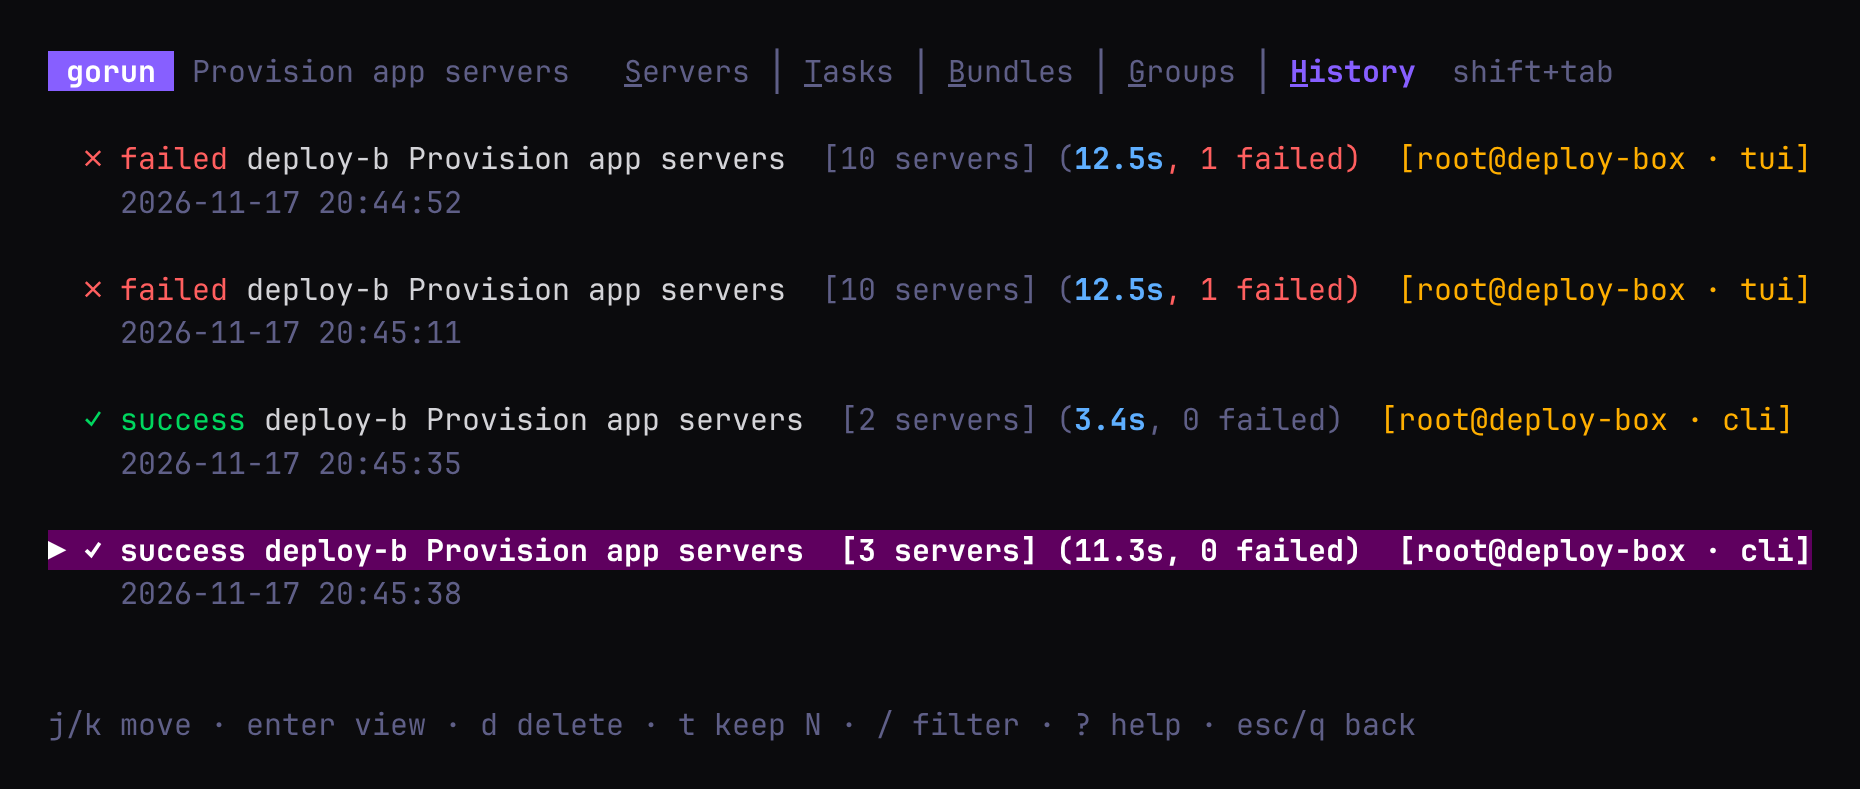
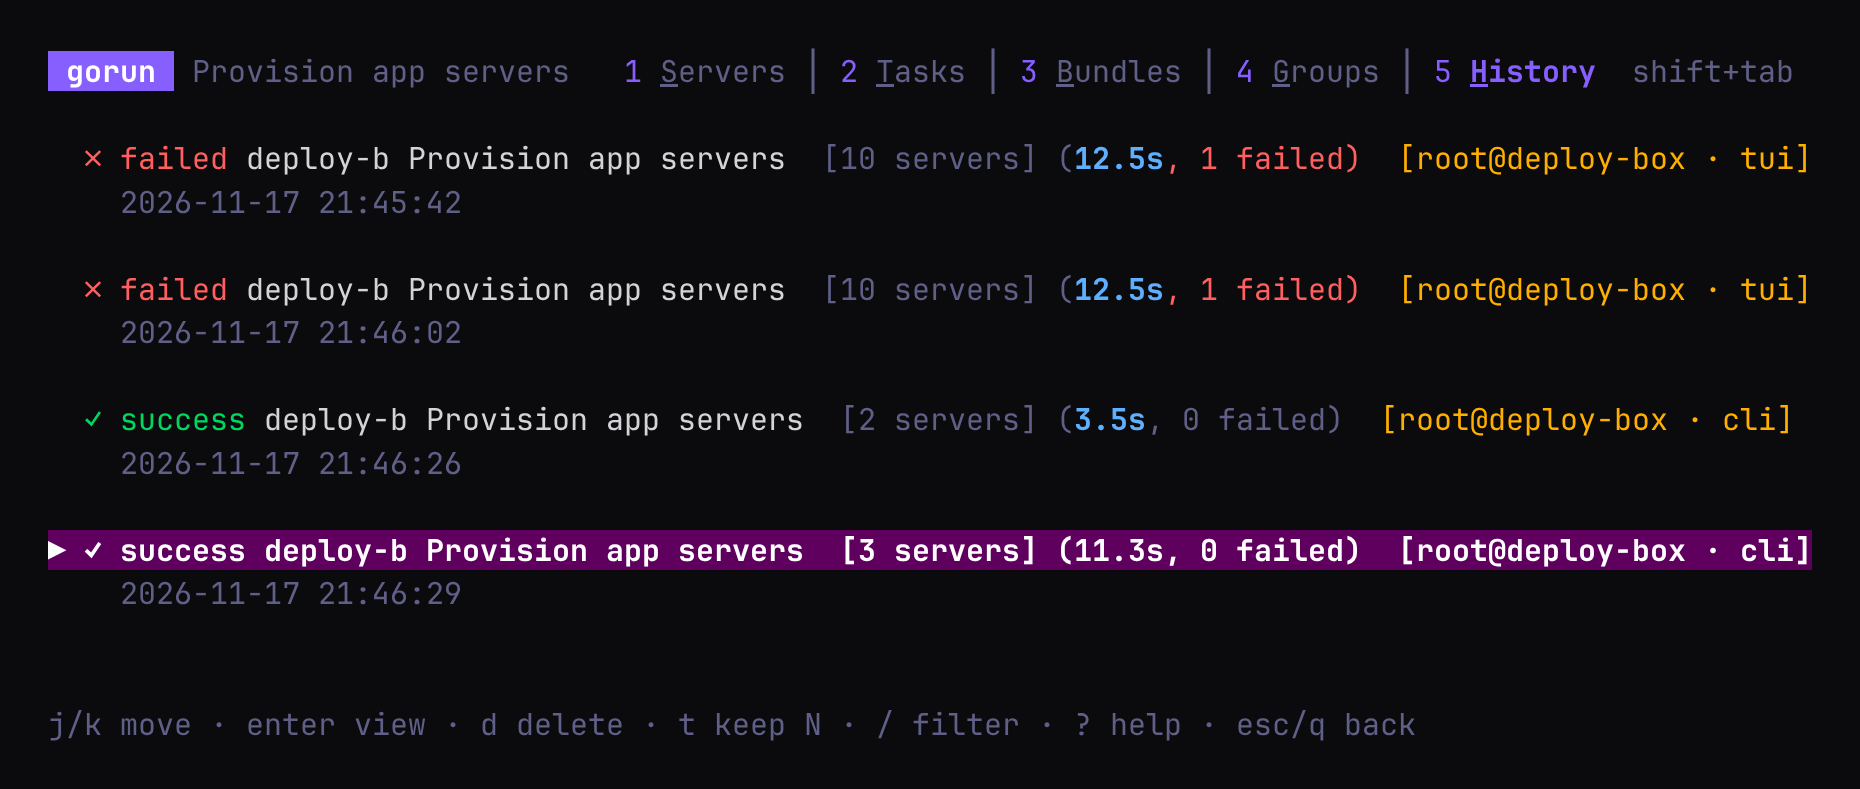
feat(tui): number the tabs
Each tab shows the number that goes to it before its name: 1 Servers │ 2 Tasks │ …
Clicking the number opens the tab too. The Tasks details footer gives the vim keys.

Claude-Session: https://claude.ai/code/session_01EW1GXQyiCXk7g5DY1fHxcd

diff --git a/cmd/select.go b/cmd/select.go
@@ -7,6 +7,7 @@ import (
 	"maps"
 	"os"
 	"slices"
+	"strconv"
 	"strings"
 	"unicode"
 
@@ -518,8 +519,8 @@ func (m serverSelectionModel) tabsWidth() int {
 // tabsLine renders the tab labels, after the title.
 func (m serverSelectionModel) tabsLine() string {
 	labels := []string{}
-	for _, tab := range m.tabs() {
-		labels = append(labels, m.tabLabel(tabNames[tab], tab))
+	for i, tab := range m.tabs() {
+		labels = append(labels, m.tabLabel(tabNames[tab], tab, i+1))
 	}
 	return "   " + strings.Join(labels, mutedStyle.Render(" │ ")) + mutedStyle.Render("  shift+tab")
 }
@@ -544,18 +545,24 @@ func (m serverSelectionModel) titleLine() string {
 	return line + m.tabsLine()
 }
 
-// tabLabel renders a tab's name with its shortcut letter underlined, highlighted when it is the active tab.
-func (m serverSelectionModel) tabLabel(name string, tab int) string {
+// tabLabel renders a tab's number and name, with its shortcut letter underlined, highlighted
+// when it is the active tab.
+func (m serverSelectionModel) tabLabel(name string, tab, n int) string {
 	if name == "" {
 		return ""
 	}
+	// the number key (n) and the ctrl+letter (underlined) that go to the tab
+	num := tabNumberStyle.Render(strconv.Itoa(n)) + " "
 	underlined := lipgloss.NewStyle().Underline(true).Render(string(name[0]))
 	rest := name[1:]
 	if m.tab == tab {
-		return activeTabStyle.Render(underlined) + activeTabStyle.Render(rest)
+		return num + activeTabStyle.Render(underlined) + activeTabStyle.Render(rest)
 	}
-	return mutedStyle.Render(underlined) + mutedStyle.Render(rest)
+	return num + mutedStyle.Render(underlined) + mutedStyle.Render(rest)
 }
+
+// tabNumberStyle draws the number before each tab's name.
+var tabNumberStyle = lipgloss.NewStyle().Foreground(colorAccent)
 
 // tabAt returns the tab whose label is at screen position x, y.
 func (m serverSelectionModel) tabAt(x, y int) (int, bool) {
@@ -564,7 +571,7 @@ func (m serverSelectionModel) tabAt(x, y int) (int, bool) {
 	}
 	start := lipgloss.Width(m.titlePrefix() + "   ")
 	for _, tab := range m.tabs() {
-		w := lipgloss.Width(tabNames[tab])
+		w := lipgloss.Width(tabNames[tab]) + 2 // the number and a space
 		if x >= start && x < start+w {
 			return tab, true
 		}

diff --git a/cmd/select_test.go b/cmd/select_test.go
@@ -699,7 +699,7 @@ func TestServerSelectionModel_HistoryTab(t *testing.T) {
 	if m.tab != tabServers {
 		t.Fatal("clicking the Servers tab should show the servers")
 	}
-	m, _ = send(m, tea.MouseClickMsg{X: x + lipgloss.Width("Servers │ "), Y: 0, Button: tea.MouseLeft})
+	m, _ = send(m, tea.MouseClickMsg{X: x + lipgloss.Width("1 Servers │ "), Y: 0, Button: tea.MouseLeft})
 	if m.tab != tabHistory {
 		t.Fatal("clicking the History tab should show the history")
 	}
@@ -768,7 +768,7 @@ func TestServerSelectionModel_LongTitleKeepsTabs(t *testing.T) {
 	if w := lipgloss.Width(line); w > 70 {
 		t.Errorf("the title line is %d wide, want at most 70", w)
 	}
-	if plain := ansi.Strip(line); !strings.Contains(plain, "Servers │ History") || !strings.Contains(plain, "…") {
+	if plain := ansi.Strip(line); !strings.Contains(plain, "1 Servers │ 2 History") || !strings.Contains(plain, "…") {
 		t.Errorf("the title should be shortened to keep the tabs, got %q", plain)
 	}
 

diff --git a/cmd/listview.go b/cmd/listview.go
@@ -654,7 +654,7 @@ func (m treeModel) taskView() string {
 	}
 	help := fmt.Sprintf("%d/%d · j/k move · L or tab details · h/l expand · ctrl+e edit file · e/E/c/C tree · / filter · ? help", m.cursor+1, len(m.rows))
 	if m.detailFocus {
-		help = fmt.Sprintf("%d/%d · ↑/↓ section · enter/→ expand · ← collapse/back · ctrl+e edit file · pgup/dn scroll · home/end · tab tree", m.cursor+1, len(m.rows))
+		help = fmt.Sprintf("%d/%d · j/k section · enter/l expand · h collapse · H or tab tree · ctrl+u/d scroll · ctrl+e edit file · ? help", m.cursor+1, len(m.rows))
 	}
 	if m.embedded {
 		help += " · esc/q servers · shift+tab switch"

diff --git a/cmd/listview_test.go b/cmd/listview_test.go
@@ -355,7 +355,7 @@ func TestPickerListTabs(t *testing.T) {
 	next, _ := m.Update(tea.WindowSizeMsg{Width: 120, Height: 20})
 	m = next.(serverSelectionModel)
 
-	if plain := ansi.Strip(m.titleLine()); !strings.Contains(plain, "Servers │ Tasks │ Bundles │ Groups │ History") {
+	if plain := ansi.Strip(m.titleLine()); !strings.Contains(plain, "1 Servers │ 2 Tasks │ 3 Bundles │ 4 Groups │ 5 History") {
 		t.Fatalf("title line %q is missing the tabs", plain)
 	}
 

diff --git a/docs/running.md b/docs/running.md
@@ -71,8 +71,8 @@ select the hosts to run them against. The tasks pane lists only the checked bund
 their dependencies), and that is what runs instead of each server's own pipeline. Each server
 still runs only the tasks of its kind: [`local = true`](gorunfile.md#local-only-tasks) tasks on
 local servers, the rest over SSH. Press **space** on the bundle again to uncheck it. **History**
-shows [past runs](#history). Press **shift+tab** (or **gt**) to move between tabs, **1** to **5** to
-jump to one, and **?** or **ctrl+k** for a list of every shortcut.
+shows [past runs](#history). Press **shift+tab** (or **gt**) to move between tabs, or the number shown before a tab's name to
+jump to it, and **?** or **ctrl+k** for a list of every shortcut.
 
 Command-line filters narrow what the picker offers: `gorun Gorunfile --tag prod --task @baseline`
 opens a picker with just those servers and tasks.

diff --git a/CHANGELOG.md b/CHANGELOG.md
@@ -17,6 +17,7 @@ the release notes when a version is cut.
 - The filter's matches are picked out in every list: server names and addresses, task and
   bundle names and descriptions, run titles, IDs and hosts. The row under the cursor keeps them
   picked out too.
+- Each tab shows its number before its name (`1 Servers │ 2 Tasks │ …`), the key that goes to it.
 - **?** opens the help, as ctrl+k does. The help lists each vim key next to its plain key, and
   scrolls with j/k when it is taller than the screen. The live view has a help too.
 - **Changed:** clearing the picker's selection moves from ctrl+d to **alt+d**, since ctrl+d now
